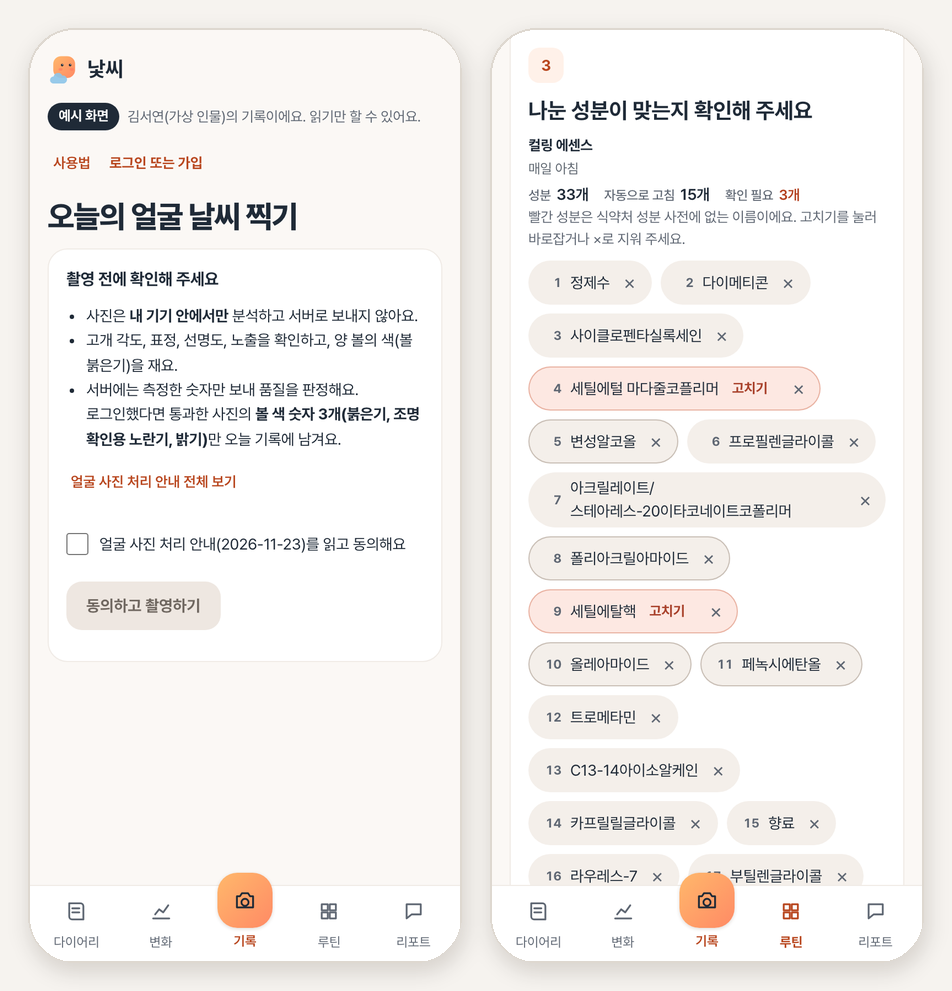
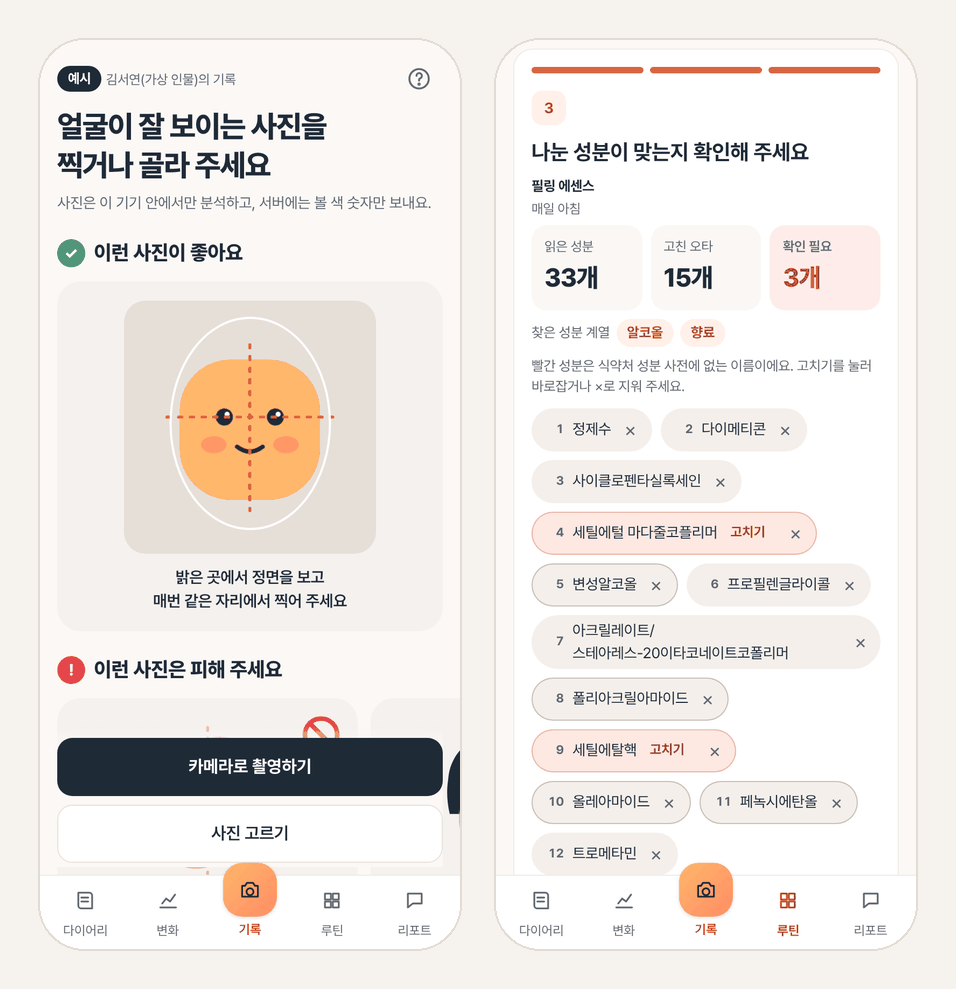
feat: PC 소개 페이지(로그인 전 처음 방문, 위쪽에 로그인과 무료로 시작하기), README 화면 캡처와 기능 설명을 지금 화면에 맞게 갱신

diff --git a/frontend/src/App.jsx b/frontend/src/App.jsx
@@ -4,6 +4,8 @@ import { useLoad, Status } from './useLoad.jsx'
 import Diary from './pages/Diary.jsx'
 import MyDay from './pages/MyDay.jsx'
 import Welcome from './pages/Welcome.jsx'
+import Landing from './pages/Landing.jsx'
+import { useDesk } from './pages/Capture.jsx'
 import { InAppBanner } from './install.jsx'
 import Splash from './pages/Splash.jsx'
 import Change from './pages/Change.jsx'
@@ -47,6 +49,10 @@ function MineGate({ title, go, children }) {
 const linkParams = () => new URLSearchParams(window.location.hash.replace(/^#/, ''))
 const TAB_TITLES = { diary: '다이어리', change: '변화', capture: '기록', routine: '루틴', report: '리포트' }
 const GUIDE_KEY = 'natssi_guide'
+// PC 소개 페이지를 한 번 지나갔는지(예시 둘러보기를 누르거나 메뉴로 들어감). 저장이 막혀도 동작은 한다(매번 소개부터).
+const LANDING_KEY = 'natssi.landingSeen'
+const landingSeen = () => { try { return localStorage.getItem(LANDING_KEY) === '1' } catch { return false } }
+const rememberLanding = () => { try { localStorage.setItem(LANDING_KEY, '1') } catch { /* 저장이 막혀도 계속 */ } }
 const guideSeen = () => { try { return localStorage.getItem(GUIDE_KEY) === '1' } catch { return true } }
 
 export default function App() {
@@ -57,23 +63,33 @@ export default function App() {
   const [anchor, setAnchor] = useState(null)
   const [homeN, setHomeN] = useState(0)             // 로고를 누를 때마다 올려서 다이어리를 새로 그린다(열린 달력 닫기)
   const [guide, setGuide] = useState(false)         // 사용법 시트
+  const desk = useDesk()                            // PC(마우스, 900px 이상)
+  // 소개 페이지: ?tab= 링크나 비밀번호 재설정 링크로 들어오면 건너뛴다. 실제로 보일지는 아래 showLanding(로그인 전 PC)
+  const [landing, setLanding] = useState(() => !new URLSearchParams(window.location.search).get('tab') && !window.location.hash && !landingSeen())
+  const [legalFromIntro, setLegalFromIntro] = useState(false)
   const [epoch, setEpoch] = useState(0)           // 로그인·로그아웃하면 화면 데이터를 새로 불러옴
   const meta = useLoad(() => api.meta(), [epoch])
   const [date, setDate] = useState(null)
   const day = date || meta.data?.today
   const viewer = meta.data?.viewer
   const refreshAll = () => setEpoch((n) => n + 1)
-  const goHome = () => { setPage(null); setTab('diary'); setDate(null); setHomeN((n) => n + 1); window.scrollTo(0, 0) }   // 로고·이름을 누르면 오늘의 다이어리로
+  const goHome = () => { setPage(null); setLanding(false); setTab('diary'); setDate(null); setHomeN((n) => n + 1); window.scrollTo(0, 0) }   // 오늘의 다이어리로
+  const showLanding = landing && desk && !!meta.data && !viewer && !page
+  const [authStart, setAuthStart] = useState('login')   // 소개 페이지 '무료로 시작하기'는 가입 화면으로 연다
+  const intro = desk && !!meta.data && !viewer                                    // 소개 페이지를 쓸 수 있는 경우(PC, 로그인 전)
+  const goIntro = () => { setPage(null); setLanding(true); window.scrollTo(0, 0) }                 // PC 로그인 전: 로고와 '소개' 메뉴
+  const explore = () => { rememberLanding(); try { localStorage.setItem(GUIDE_KEY, '1') } catch { /* 계속 */ } goHome() }
+  const pickTab = (id) => { if (landing) { rememberLanding(); setLanding(false) } setPage(null); setTab(id) }
   const closeGuide = () => { try { localStorage.setItem(GUIDE_KEY, '1') } catch { /* 저장이 막혀도 계속 */ } setGuide(false) }
   useEffect(() => { if (window.location.hash && (resetToken || linkExpired)) window.history.replaceState(null, '', window.location.pathname + window.location.search) }, [])   // 토큰이 주소창에 남지 않게
   const firstNav = useRef(true)
   useEffect(() => {                                   // 화면이 바뀌면 제목을 갱신하고, 스크린리더·키보드 사용자를 새 제목으로 옮긴다
-    const name = page === 'auth' ? '로그인 또는 가입' : page === 'legal' ? '약관과 개인정보 처리방침' : page === 'account' ? '내 계정' : TAB_TITLES[tab]
+    const name = page === 'auth' ? '로그인 또는 가입' : page === 'legal' ? '약관과 개인정보 처리방침' : page === 'account' ? '내 계정' : showLanding ? '소개' : TAB_TITLES[tab]
     document.title = `${name} - 낯씨`
     if (firstNav.current) { firstNav.current = false; return }
     const h = document.querySelector('.main h1')
     if (h) { h.setAttribute('tabindex', '-1'); h.focus({ preventScroll: true }) }
-  }, [tab, page])
+  }, [tab, page, showLanding])
   const canStart = !!(meta.data?.auth && !viewer)
   const goLegal = (a) => { setAnchor(a); setPage('legal') }
   const loggedOut = () => { session.clear(); setPage(null); setDate(null); refreshAll() }
@@ -84,7 +100,7 @@ export default function App() {
     return () => window.removeEventListener('natssi:logout', h)
   }, [])
   // 오래된 로그인 정보 때문에 처음부터 막히면 정리하고 데모로 돌아감
-  useEffect(() => { if (meta.data && !meta.data.viewer && !guideSeen() && !resetToken && !linkExpired) setGuide(true) }, [meta.data])
+  useEffect(() => { if (meta.data && !meta.data.viewer && !guideSeen() && !resetToken && !linkExpired && !(landing && desk)) setGuide(true) }, [meta.data])   // 소개 페이지가 보이면 사용법 시트는 띄우지 않는다
   useEffect(() => {
     if (meta.error && session.get()) { session.clear(); refreshAll() }
   }, [meta.error])
@@ -96,11 +112,16 @@ export default function App() {
     <div className="shell">
       <aside className="side">
         <div className="side-in">{/* 메뉴는 화면에 붙어 있고, 흰 바탕과 경계선은 페이지 길이만큼 이어진다 */}
-        <button className="brand" onClick={goHome} aria-label="낯씨 홈으로"><img src="/logo.svg" alt="" />낯씨</button>
+        <button className="brand" onClick={intro ? goIntro : goHome} aria-label={intro ? '낯씨 소개로' : '낯씨 홈으로'}><img src="/logo.svg" alt="" />낯씨</button>
         <nav aria-label="주 메뉴">
+          {intro && (
+            <button className={showLanding ? 'on' : ''} aria-current={showLanding ? 'page' : undefined} onClick={goIntro}>
+              <svg viewBox="0 0 24 24" aria-hidden="true"><path d="M4 11l8-7 8 7v9h-5v-6H9v6H4z" /></svg>소개
+            </button>
+          )}
           {TABS.map((t) => (
-            <button key={t.id} className={tab === t.id ? 'on' : ''} aria-current={tab === t.id ? 'page' : undefined}
-              onClick={() => { setPage(null); setTab(t.id) }}>
+            <button key={t.id} className={tab === t.id && !showLanding ? 'on' : ''} aria-current={tab === t.id && !showLanding ? 'page' : undefined}
+              onClick={() => pickTab(t.id)}>
               <svg viewBox="0 0 24 24" aria-hidden="true"><path d={t.icon} /></svg>{t.label}
             </button>
           ))}
@@ -114,7 +135,9 @@ export default function App() {
 
       <main className="main">
         <InAppBanner />
-        {meta.data && (
+        {showLanding && <Landing onExplore={explore} onLegal={(a) => { setLegalFromIntro(true); goLegal(a) }}
+          onAuth={meta.data.auth ? (m) => { setAuthStart(m); setPage('auth') } : null} />}
+        {meta.data && !showLanding && (
           <div className="topline">
             {!viewer && <p className="demo-note"><span className="demo-badge">예시</span>{meta.data.persona.name}(가상 인물)의 기록</p>}
             <div className="top-actions">
@@ -131,10 +154,10 @@ export default function App() {
           </div>
         )}
         <Status {...meta} />
-        {meta.data && page === 'auth' && <Auth back={() => setPage(null)} onLegal={goLegal} resetToken={resetToken} linkExpired={linkExpired} recovery={!!meta.data.recovery} onResetDone={() => setResetToken(null)} onDone={() => { setPage(null); setDate(null); refreshAll() }} />}
-        {meta.data && page === 'legal' && <Legal anchor={anchor} version={meta.data.consent_version} back={() => setPage(viewer ? 'account' : 'auth')} />}
+        {meta.data && page === 'auth' && <Auth key={authStart} start={authStart} back={() => { setPage(null); setAuthStart('login') }} onLegal={goLegal} resetToken={resetToken} linkExpired={linkExpired} recovery={!!meta.data.recovery} onResetDone={() => setResetToken(null)} onDone={() => { setPage(null); setDate(null); refreshAll() }} />}
+        {meta.data && page === 'legal' && <Legal anchor={anchor} version={meta.data.consent_version} back={() => { if (legalFromIntro) { setLegalFromIntro(false); setPage(null) } else setPage(viewer ? 'account' : 'auth') }} />}
         {meta.data && page === 'account' && viewer && <Account meta={meta.data} onLegal={goLegal} onLoggedOut={loggedOut} onChanged={refreshAll} />}
-        {meta.data && !page && (
+        {meta.data && !page && !showLanding && (
           <div key={epoch}>
             {tab === 'diary' && (viewer ? <MyDay key={homeN} date={date} setDate={setDate} go={setTab} onAccount={() => setPage('account')} viewer={viewer} policyVersion={meta.data.consent_version} onLegal={goLegal} onConsented={refreshAll} /> : <Diary key={homeN} date={day} setDate={setDate} meta={meta.data} go={setTab} askLogin={() => setPage('auth')} />)}
             {tab === 'change' && (viewer ? <MineGate title="변화" go={setTab}><Change mine /></MineGate> : <Change onOpenDay={(iso) => { setDate(iso); setTab('diary') }} />)}

diff --git a/frontend/src/pages/Landing.jsx b/frontend/src/pages/Landing.jsx
@@ -1,0 +1,109 @@
+// PC 소개 페이지(랜딩). PC(마우스, 900px 이상) + 로그인 전 + 처음 온 사람에게만 보인다(App.jsx가 고른다).
+// 심사위원과 처음 온 사람이 낯씨가 뭔지 바로 알고, 한 번 눌러 예시를 둘러보거나 폰으로 시작할 수 있게.
+// 화면 미리보기는 docs/readme의 실제 캡처를 줄여 public/landing에 둔 것. 문구는 처리방침(Legal.jsx)과 어긋나지 않게 쓴다.
+import { QR } from './Capture.jsx'
+
+const STEPS = [
+  ['폰으로 셀카와 증상을 남겨요', '하루 한 번, 셀카 한 장과 따가움, 화끈, 가려움, 당김을 0~3으로 남겨요. 1분이면 돼요.'],
+  ['루틴은 한 번에 하나만 바꿔요', '제품을 더하거나 빈도를 바꿀 때 하나씩 바꾸면, 무엇이 달라졌는지 알 수 있어요.'],
+  ['바꾼 시기와 붉어진 시기를 겹쳐 봐요', '볼 붉은기를 내 평소 범위와 비교해 맑음과 흐림으로 보여 주고, 루틴을 바꾼 날을 그래프에 함께 표시해요.'],
+]
+
+const TRUST = [
+  ['얼굴 사진은 서버로 보내지 않아요', '사진은 폰 안에서 분석하고, 서버에는 볼 색 숫자만 보내요. 볼 부분 작은 사진 보관은 따로 동의한 경우에만 해요.'],
+  ['진단하지 않아요', '얼굴 날씨는 내 평소 기록과 비교한 참고 결과예요. 증상이 계속되면 사용을 멈추고 전문의와 상담해 주세요.'],
+  ['제품을 팔거나 추천하지 않아요', '광고도 없어요. 내가 쓰는 제품을 기록하고 비교하는 데만 써요.'],
+  ['판정은 코드가 해요', 'AI는 리포트 문장만 다듬어요. 내 기록은 AI로 문장 다듬기에 동의한 경우에만 가명 요약으로 보내요.'],
+]
+
+export default function Landing({ onExplore, onLegal, onAuth }) {
+  const toStart = () => {
+    const el = document.getElementById('landing-start')
+    el?.scrollIntoView({ behavior: window.matchMedia?.('(prefers-reduced-motion: reduce)').matches ? 'auto' : 'smooth', block: 'start' })
+    el?.focus({ preventScroll: true })
+  }
+  return (
+    <div className="landing">
+      {onAuth && (
+        <nav className="ld-top" aria-label="계정">
+          <button type="button" className="link" onClick={() => onAuth('login')}>로그인</button>
+          <button type="button" className="btn ld-signup" onClick={() => onAuth('signup')}>무료로 시작하기</button>
+        </nav>
+      )}
+      <section className="ld-hero" aria-labelledby="ld-title">
+        <div className="ld-hero-text">
+          <p className="ld-eyebrow"><img src="/logo.svg" alt="" />낯씨, 얼굴 날씨로 보는 루틴 일기</p>
+          <h1 id="ld-title">루틴을 바꾼 뒤<br />내 얼굴이 어떤지<br />날씨처럼 보여 드려요</h1>
+          <p className="ld-lead">매일 셀카 한 장과 증상 네 가지를 남기면, 내 평소 기록과 비교해 맑음과 흐림으로 알려 줘요. 루틴을 바꾼 시기와 볼이 붉어진 시기가 겹치는지 한눈에 볼 수 있어요.</p>
+          <div className="ld-cta">
+            <button className="btn dark ld-main" onClick={onExplore}>PC에서 예시 둘러보기</button>
+            <button className="btn ghost" onClick={toStart}>폰으로 시작하기</button>
+          </div>
+          <p className="ld-note">예시는 김서연(가상 인물)의 4주 기록이에요. 로그인하지 않아도 볼 수 있어요.</p>
+        </div>
+        <figure className="ld-shot ld-hero-shot">
+          <img src="/landing/web.jpg" width="1400" height="900" alt="PC에서 본 낯씨 다이어리 예시 화면. 이달 요약 숫자, 루틴을 바꾼 날이 점선으로 표시된 4주 볼 붉은기 그래프, 오늘의 얼굴 날씨 맑음." />
+        </figure>
+      </section>
+
+      <section className="ld-sec" aria-labelledby="ld-how">
+        <h2 id="ld-how">이렇게 써요</h2>
+        <ol className="ld-steps">
+          {STEPS.map(([t, d], i) => (
+            <li key={t}><span className="ld-num" aria-hidden="true">{i + 1}</span><h3>{t}</h3><p>{d}</p></li>
+          ))}
+        </ol>
+      </section>
+
+      <section className="ld-sec" aria-labelledby="ld-preview">
+        <h2 id="ld-preview">화면 미리보기</h2>
+        <div className="ld-previews">
+          <figure className="ld-shot">
+            <img src="/landing/phones.jpg" width="1600" height="847" loading="lazy"
+              alt="폰 화면 네 장. 다이어리의 오늘 얼굴 날씨, 볼 붉은기 흐름 그래프, 내 루틴, 근거가 붙은 리포트." />
+            <figcaption>폰에서 보는 다이어리, 변화, 루틴, 리포트</figcaption>
+          </figure>
+          <figure className="ld-shot">
+            <img src="/landing/record_ocr.jpg" width="900" height="931" loading="lazy"
+              alt="폰 화면 두 장. 좋은 사진과 피할 사진을 보여 주는 촬영 전 안내, 전성분 사진에서 읽은 성분 33개를 확인하는 화면." />
+            <figcaption>셀카 기록과 전성분 사진 읽기</figcaption>
+          </figure>
+        </div>
+      </section>
+
+      <section className="ld-sec" aria-labelledby="ld-trust">
+        <h2 id="ld-trust">믿고 쓸 수 있게</h2>
+        <ul className="ld-trust">
+          {TRUST.map(([t, d]) => <li key={t}><h3>{t}</h3><p>{d}</p></li>)}
+        </ul>
+        <button className="link" onClick={() => onLegal('privacy')}>개인정보 처리방침 자세히 보기</button>
+      </section>
+
+      <section className="ld-sec ld-start" id="landing-start" tabIndex={-1} aria-labelledby="ld-start-t">
+        <div>
+          <h2 id="ld-start-t">폰으로 시작하기</h2>
+          <p>기록은 폰으로 해요. 매일 같은 폰으로, 같은 자리에서 찍어야 볼 붉은기를 비교할 수 있어서예요.</p>
+          <ol className="ld-pwa">
+            <li>폰 카메라로 오른쪽 QR을 비추면 낯씨가 열려요.</li>
+            <li>앱 스토어 앱은 없어요. 홈 화면에 추가하면 앱처럼 열 수 있어요.
+              <ul>
+                <li>아이폰 Safari: 공유 버튼, 홈 화면에 추가</li>
+                <li>안드로이드 Chrome: 메뉴, 홈 화면에 추가(또는 앱 설치)</li>
+              </ul>
+            </li>
+            <li>가입하고 매일 셀카와 증상을 남겨요. 사진 기록이 7일 쌓이면 내 평소 범위와 비교해요.</li>
+          </ol>
+        </div>
+        <div className="ld-qr">
+          <QR text={window.location.origin} label="폰 카메라로 비추면 낯씨가 열리는 QR 코드" />
+          <p className="small">폰 카메라로 비춰 주세요</p>
+        </div>
+      </section>
+
+      <footer className="ld-foot">
+        <p>2026 AI 플랫폼 구축 경진대회 출품작, 팀 니얼굴</p>
+        <button className="link" onClick={() => onLegal('privacy')}>개인정보 처리방침</button>
+      </footer>
+    </div>
+  )
+}

diff --git a/frontend/src/styles.css b/frontend/src/styles.css
@@ -866,3 +866,40 @@ button.fm-box:focus-visible{outline:3px solid #fff;outline-offset:2px}
   .ocr-actions{max-width:520px}
 }
 @media (prefers-reduced-motion:reduce){.lb-good .lb-frame{animation:none}}
+/* PC 소개 페이지(랜딩) */
+.landing{display:grid;gap:72px;padding:8px 0 24px;max-width:1120px}
+.ld-hero{display:grid;grid-template-columns:minmax(0,1fr) minmax(0,1.15fr);gap:48px;align-items:center;min-height:calc(100dvh - 120px)}
+.ld-eyebrow{display:flex;align-items:center;gap:8px;font-size:15px;font-weight:700;color:var(--accent-ink)}.ld-eyebrow img{width:28px;height:28px}
+.landing h1{font-size:44px;line-height:1.25;letter-spacing:-.04em;font-weight:800;margin:14px 0 16px}
+.ld-lead{font-size:17px;line-height:1.7;color:#3d4652}
+.ld-cta{display:flex;flex-wrap:wrap;gap:10px;margin:28px 0 12px}
+.ld-cta .btn{min-height:54px;padding:0 24px;font-size:16px}
+.ld-cta .ld-main{padding:0 30px;box-shadow:0 8px 20px rgba(31,42,55,.22)}
+.ld-note{font-size:13.500px;color:var(--sub)}
+.ld-shot{margin:0;border-radius:20px;overflow:hidden;background:#fff;border:1px solid var(--line);box-shadow:0 18px 48px rgba(80,50,30,.12)}
+.ld-shot img{display:block;width:100%;height:auto}
+.ld-shot figcaption{padding:12px 16px;font-size:14px;font-weight:600;color:#3d4652;border-top:1px solid var(--line)}
+.ld-hero-shot{animation:ld-in .6s cubic-bezier(.2,.8,.2,1) both}
+@keyframes ld-in{from{opacity:0;transform:translateY(16px)}to{opacity:1;transform:none}}
+.ld-sec h2{font-size:28px;font-weight:800;letter-spacing:-.03em;margin-bottom:20px}
+.ld-steps{list-style:none;margin:0;padding:0;display:grid;grid-template-columns:repeat(3,minmax(0,1fr));gap:16px}
+.ld-steps li{background:var(--card);border:1px solid var(--line);border-radius:20px;padding:22px 22px 24px}
+.ld-num{display:inline-flex;align-items:center;justify-content:center;width:34px;height:34px;border-radius:50%;background:var(--tint);color:var(--accent-ink);font-weight:800;margin-bottom:14px}
+.ld-steps h3,.ld-trust h3{font-size:17px;font-weight:800;margin-bottom:6px;letter-spacing:-.02em}
+.ld-steps p,.ld-trust p{font-size:14.500px;line-height:1.65;color:#3d4652}
+.ld-previews{display:grid;grid-template-columns:minmax(0,1.7fr) minmax(0,1fr);gap:20px;align-items:start}
+.ld-trust{list-style:none;margin:0 0 8px;padding:0;display:grid;grid-template-columns:repeat(2,minmax(0,1fr));gap:16px}
+.ld-trust li{background:var(--card);border:1px solid var(--line);border-radius:20px;padding:20px 22px}
+.ld-start{display:grid;grid-template-columns:minmax(0,1fr) 240px;gap:40px;align-items:center;background:var(--card);border:1px solid var(--line);border-radius:24px;padding:32px 36px;outline:none}
+.ld-start:focus-visible{box-shadow:0 0 0 3px var(--accent)}
+.ld-start>div>p{font-size:15.500px;line-height:1.7;color:#3d4652}
+.ld-pwa{margin:14px 0 0 20px;display:grid;gap:8px;font-size:15px;line-height:1.6}
+.ld-pwa ul{margin:4px 0 0 18px;font-size:14px;color:#3d4652}
+.ld-qr{display:grid;justify-items:center;gap:8px}
+.ld-qr .qr{width:220px;height:220px;border-radius:16px;border:1px solid var(--line)}
+.ld-foot{display:flex;flex-wrap:wrap;align-items:center;justify-content:space-between;gap:8px;padding-top:20px;border-top:1px solid var(--line);font-size:13.500px;color:var(--sub)}
+@media (max-width:1180px){.ld-hero{grid-template-columns:1fr;min-height:0}.landing h1{font-size:40px}}
+@media (prefers-reduced-motion:reduce){.ld-hero-shot{animation:none}}
+/* 소개 페이지 위쪽: 로그인, 무료로 시작하기(가입) */
+.ld-top{display:flex;justify-content:flex-end;align-items:center;gap:14px;margin-bottom:-56px}
+.ld-top .link{font-size:15px;font-weight:700;color:var(--ink)}.ld-top .ld-signup{min-height:44px;padding:0 20px;font-size:15px}

diff --git a/frontend/src/pages/Capture.jsx b/frontend/src/pages/Capture.jsx
@@ -19,11 +19,11 @@ export function useDesk() {
 }
 
 // 이 주소를 폰으로 여는 QR(그리기만 한다. 주소는 바깥으로 보내지 않음)
-export function QR({ text }) {
+export function QR({ text, label = '폰 카메라로 비추면 낯씨 기록 화면이 열리는 QR 코드' }) {
   const q = qrcode(0, 'M'); q.addData(text); q.make()
   const n = q.getModuleCount(); let d = ''
   for (let r = 0; r < n; r++) for (let c = 0; c < n; c++) if (q.isDark(r, c)) d += `M${c} ${r}h1v1h-1z`
-  return <svg className="qr" viewBox={`-2 -2 ${n + 4} ${n + 4}`} role="img" aria-label="폰 카메라로 비추면 낯씨 기록 화면이 열리는 QR 코드" shapeRendering="crispEdges"><rect x="-2" y="-2" width={n + 4} height={n + 4} fill="#fff" /><path d={d} fill="#1f2a37" /></svg>
+  return <svg className="qr" viewBox={`-2 -2 ${n + 4} ${n + 4}`} role="img" aria-label={label} shapeRendering="crispEdges"><rect x="-2" y="-2" width={n + 4} height={n + 4} fill="#fff" /><path d={d} fill="#1f2a37" /></svg>
 }
 
 // 분석하는 동안 보여 줄 단계(실제로 하는 일 순서). 각 단계는 끝난 뒤에 ✓가 붙는다.

diff --git a/frontend/src/pages/Auth.jsx b/frontend/src/pages/Auth.jsx
@@ -29,8 +29,8 @@ function Field({ id, label, error, helper, children }) {
   )
 }
 
-export default function Auth({ onDone, onLegal, back, resetToken, linkExpired, onResetDone, recovery }) {
-  const [mode, setMode] = useState(resetToken ? 'reset' : linkExpired && recovery ? 'forgot' : 'login')   // login | signup | forgot | reset
+export default function Auth({ onDone, onLegal, back, resetToken, linkExpired, onResetDone, recovery, start = 'login' }) {
+  const [mode, setMode] = useState(resetToken ? 'reset' : linkExpired && recovery ? 'forgot' : start === 'signup' ? 'signup' : 'login')   // login | signup | forgot | reset
   const [email, setEmail] = useState('')
   const [password, setPassword] = useState('')
   const [showPw, setShowPw] = useState(false)
